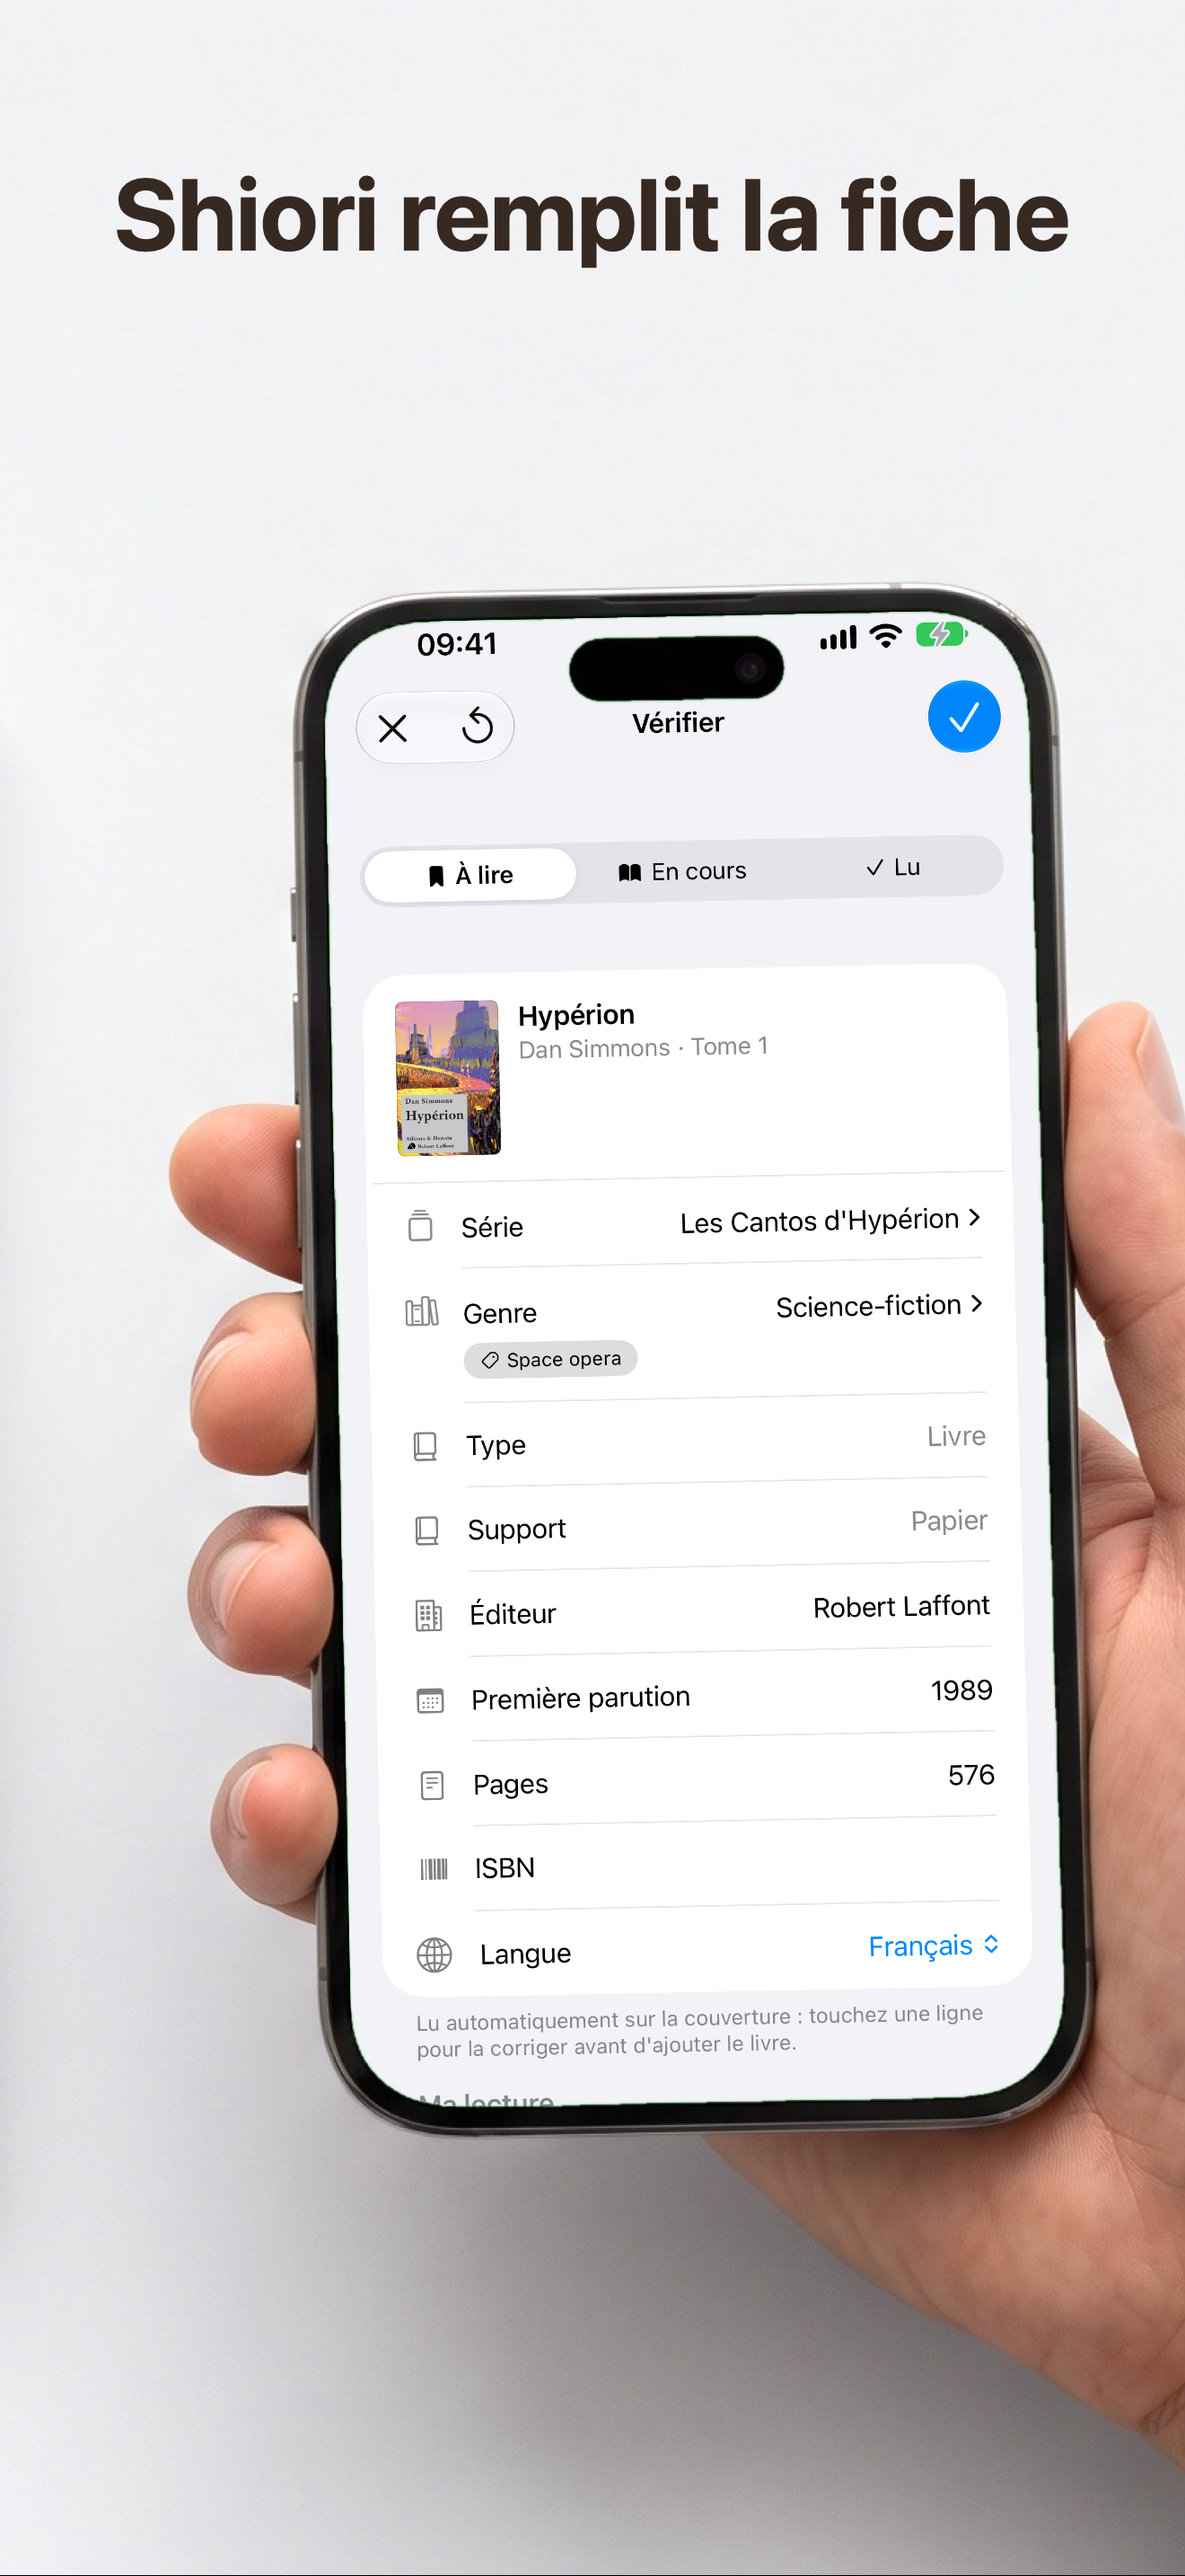
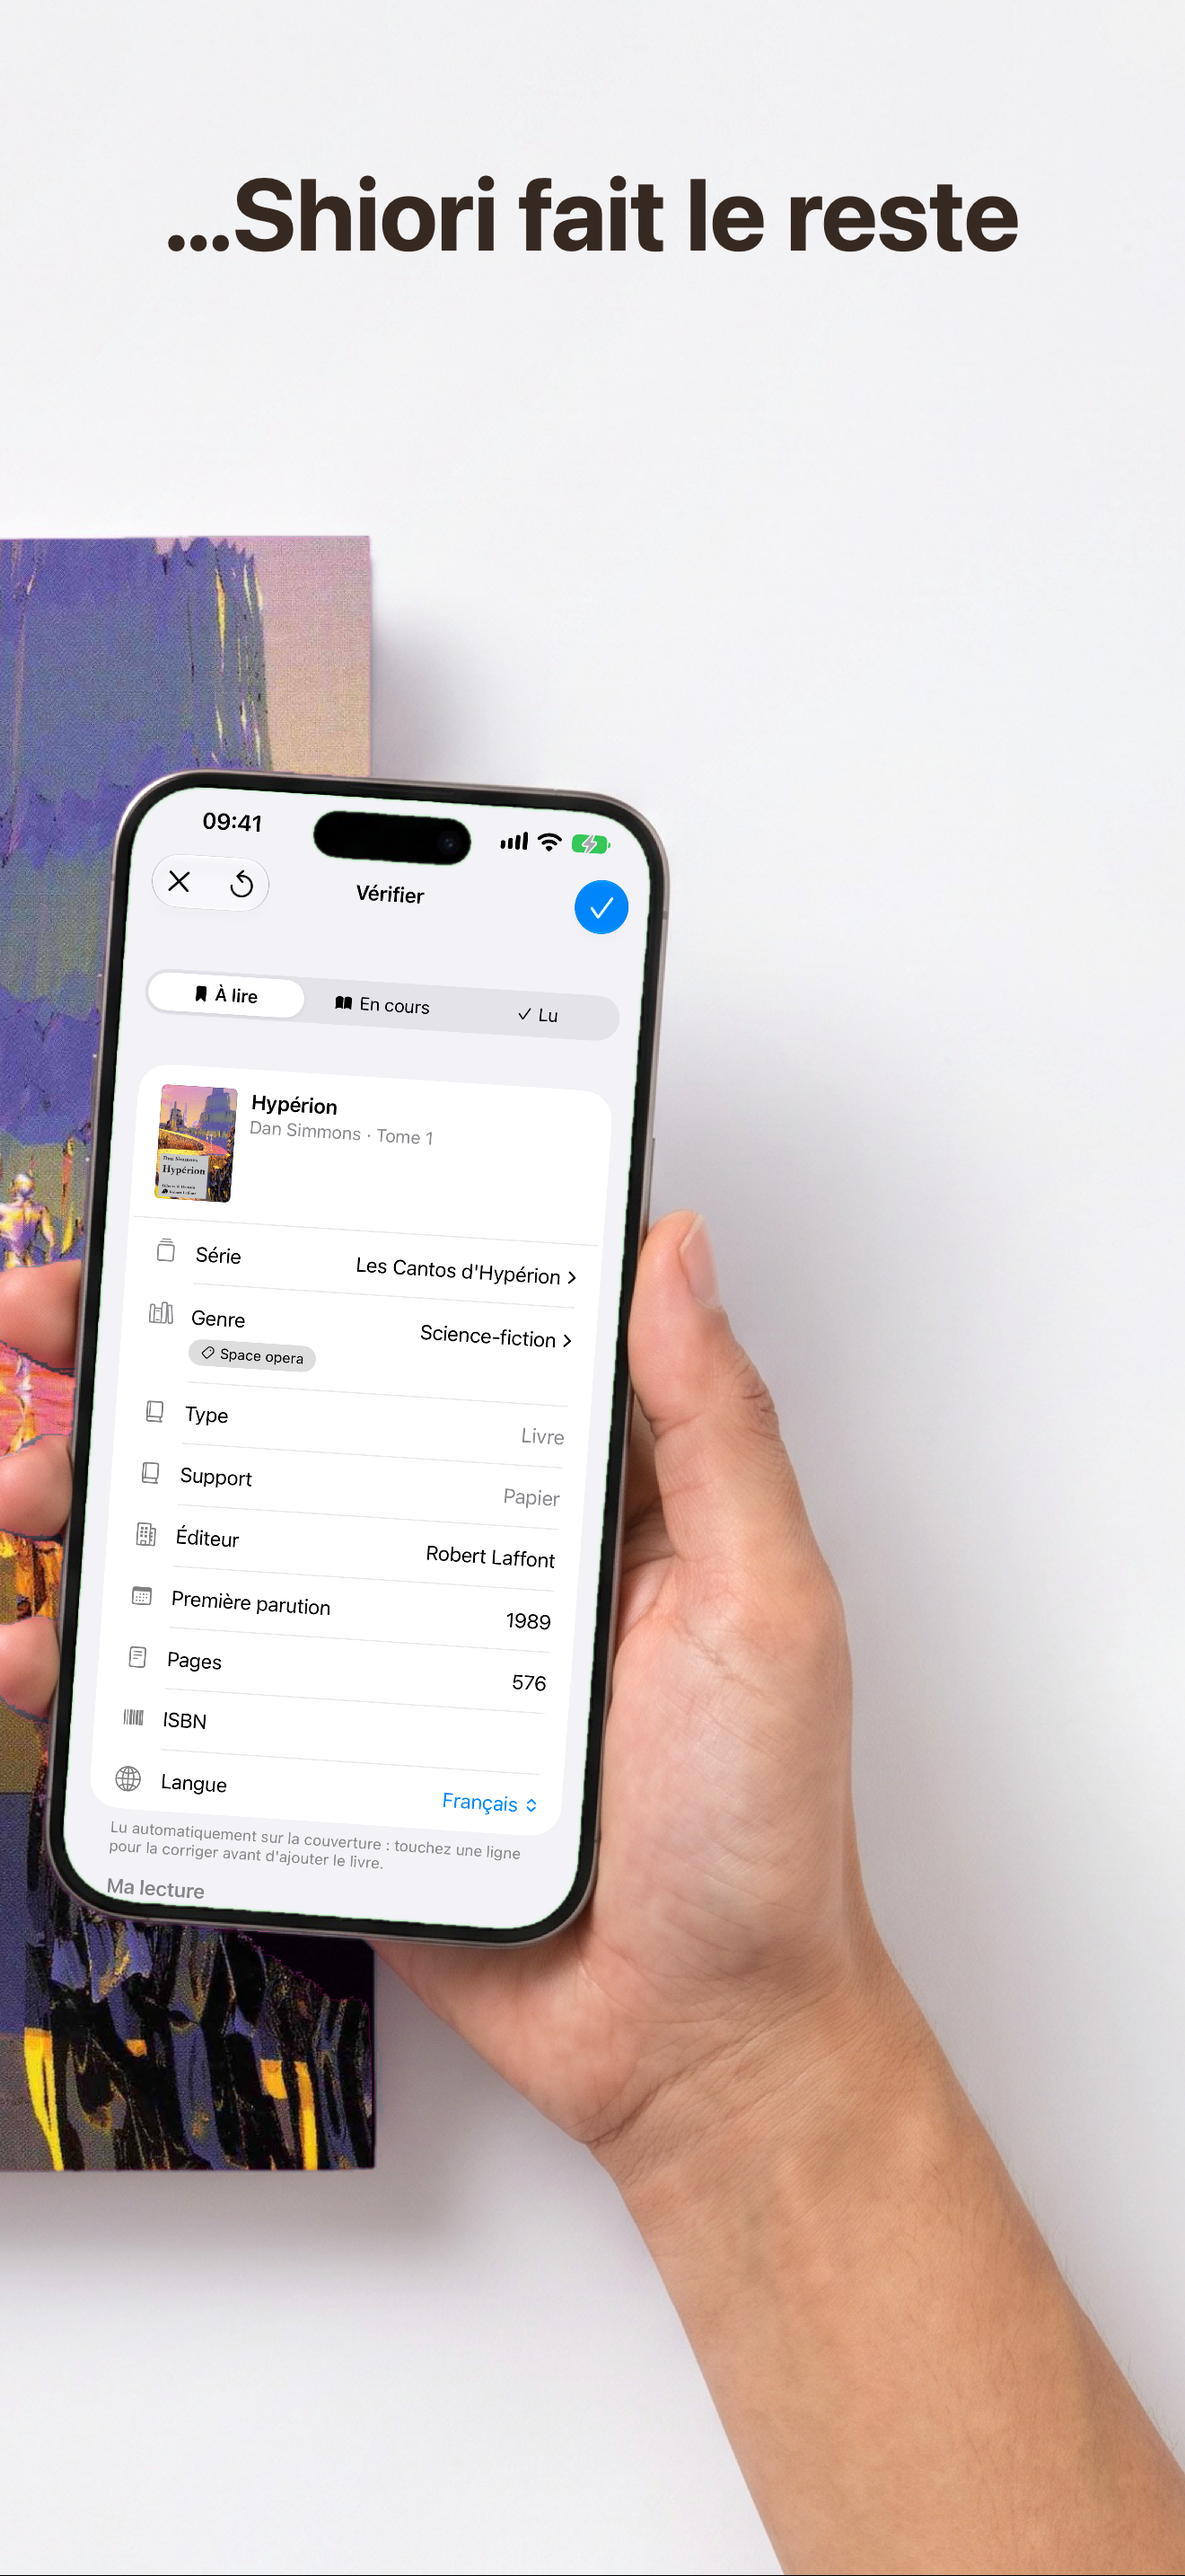
feat(appstore): the scan read across two panels, and shorter captions
The first two panels are now plainly one photograph: the Hypérion paperback
lies across the cut and the hand scans it from the right, the title split
in two with it. A cover partly hidden by the phone is placed from where its
sides show. The library panel loses its bookshelf for the common grey, and
the captions are the ones chosen for the listing.

diff --git a/scripts/generate-appstore-previews.ts b/scripts/generate-appstore-previews.ts
@@ -14,8 +14,8 @@
  * Three kinds of panel. The first two are one photograph cut in two: a reader
  * photographing a book, the phone showing its record filled in. The last is two
  * friends' hands, each phone showing the Partagé page. In between, the app alone:
- * an iPhone drawn to its exact proportions (device-panel.swift), on the grey or
- * before a dark bookshelf — hands added nothing there.
+ * an iPhone drawn to its exact proportions (device-panel.swift), on the grey —
+ * hands added nothing there.
  *
  * Scenes are cached in screenshots/appstore/scenes/ and committed: changing a
  * caption or a capture asks nothing of the model. Look at a new scene before
@@ -56,14 +56,13 @@ type Scene = { name: string; aspect: string; prompt: string }
 const SCAN: Scene = {
   name: 'scan',
   aspect: '1:1',
-  prompt: `ONE single continuous photorealistic studio photograph, square, one shot from one camera. It is NOT a diptych: no dividing line, no border, no seam; every object appears exactly once.
+  prompt: `ONE single continuous photorealistic studio photograph, square, one shot from one camera, seen from slightly above. It is NOT a diptych: no dividing line, no border, no seam; every object appears exactly once.
 ${BACKDROP}
-A reader photographs a book with their phone. The frame will be cut down its vertical middle into two side-by-side panels:
-- LEFT HALF: a single closed paperback book lies on the light grey surface, seen from slightly above, large — about 75% of the left half's width — its front cover facing up toward the camera. The cover is ONE uniform, flat, pure magenta (#FF00FF) rectangle from edge to edge, no print, no texture (a placeholder to be replaced).
-- RIGHT HALF: a single hand (hand and wrist only, light-medium skin) holds one modern iPhone upright and VERY LARGE, its top edge 18% below the top of the frame and its bottom edge at 92% of the frame's height, its screen facing the viewer, turned very slightly toward the book as if it has just photographed it.
-- Nothing on the vertical centre line: the phone stays entirely in the right half.
+A reader photographs a book with their phone. The frame will be cut down its vertical middle into two side-by-side panels, and the scene must visibly run across that cut:
+- A single large closed paperback book lies flat on the light grey surface, ACROSS the vertical centre line: about 60% of it in the left half and 40% in the right half, its front cover facing up. The cover is ONE uniform, flat, pure magenta (#FF00FF) rectangle from edge to edge, no print, no texture (a placeholder to be replaced). The book is large: about 55% of the frame's width.
+- In the right half, beside the right end of the book and NOT overlapping it, a single hand (hand and wrist only, light-medium skin) enters from the right edge and holds one modern iPhone almost upright, its screen facing the viewer straight on (turned at most 10° toward the book, as if it has just photographed it). The phone is LARGE — about 62% of the frame's height — and stays entirely in the right half; nothing covers any part of the book's cover.
 ${GREEN_SCREEN}
-The top 16% of the frame is empty background, for captions.
+The top 18% of the frame is empty background, for captions.
 ${NO_TEXT}`,
 }
 
@@ -78,20 +77,12 @@ Each display has the slim proportions of an iPhone 17 Pro Max, its height 2.17 t
 ${NO_TEXT}`,
 }
 
-const SHELVES: Scene = {
-  name: 'shelves',
-  aspect: '9:16',
-  prompt: `A photorealistic photograph, vertical 9:16: a wall of dark walnut bookshelves packed with old and colourful books, filling the whole frame from edge to edge, softly out of focus, deep shadows between the books, dim warm lamplight. No person, no hand, no phone, no object in front of the shelves.
-ABSOLUTELY NO TEXT, letters or logos anywhere, not on the book spines either.`,
-}
-
-/** The app alone, in a drawn iPhone: on the grey, or before a scene. */
+/** The app alone, in a drawn iPhone on the grey. */
 type DevicePanel = {
   kind: 'device'
   output: string
   capture: string
   caption: string
-  scene?: Scene
 }
 
 const LIGHT_GREY = '#F2F2F4'
@@ -101,8 +92,7 @@ const DEVICES: DevicePanel[] = [
     kind: 'device',
     output: '03-bibliotheque.png',
     capture: '01-library.png',
-    caption: 'Une photo, votre bibliothèque',
-    scene: SHELVES,
+    caption: 'Livres et audio !',
   },
   {
     kind: 'device',
@@ -114,19 +104,19 @@ const DEVICES: DevicePanel[] = [
     kind: 'device',
     output: '05-series.png',
     capture: '03-series.png',
-    caption: "Détection des séries et de votre état d'avancement",
+    caption: 'Suivi de vos séries préférées',
   },
   {
     kind: 'device',
     output: '06-serie.png',
     capture: '04-saga.png',
-    caption: "Être averti de l'arrivée d'un tome de votre série préférée",
+    caption: 'Être averti des sorties et disponibilités',
   },
   {
     kind: 'device',
     output: '07-decouvrir.png',
     capture: '05-discover.png',
-    caption: 'Découvrez les sorties, les disponibilités et les coups de cœur de vos amis',
+    caption: 'Découvrez vos nouveaux coups de cœur',
   },
 ]
 
@@ -204,15 +194,14 @@ const caption = async (input: string, output: string, text: string) => {
   const fitted = join(work, 'scan-fit.png')
   const covered = join(work, 'scan-cover.png')
   const screened = join(work, 'scan-screen.png')
-  // The model draws the phone at half the height asked: the window closes in on it.
-  await $`swift ${finishPanel} fit ${await sceneImage(SCAN)} ${fitted} --backdrop --width 2640 --zoom 1.17 --top 0.05 --center 0.455`.quiet()
+  await $`swift ${finishPanel} fit ${await sceneImage(SCAN)} ${fitted} --backdrop --width 2640`.quiet()
   await $`swift ${compositeMockup} ${fitted} ${covered} ${hyperionCover}`
     .env({ ...process.env, KEY: 'magenta' })
     .quiet()
   await $`swift ${compositeMockup} ${covered} ${screened} ${await capture('00-scan.png')}`.quiet()
   const halves = [
-    { output: '01-scan-livre.png', text: 'Photographiez la couverture', offset: 0 },
-    { output: '02-scan-fiche.png', text: 'Shiori remplit la fiche', offset: 1320 },
+    { output: '01-scan-livre.png', text: 'Scannez…', offset: 0 },
+    { output: '02-scan-fiche.png', text: '…Shiori fait le reste', offset: 1320 },
   ]
   for (const half of halves) {
     const cut = join(work, `scan-${half.offset}.png`)
@@ -226,8 +215,7 @@ const caption = async (input: string, output: string, text: string) => {
 // 03 to 07: the app alone.
 for (const panel of DEVICES) {
   const drawn = join(work, panel.output)
-  const backdrop = panel.scene ? await sceneImage(panel.scene) : LIGHT_GREY
-  await $`swift ${devicePanel} ${backdrop} ${await capture(panel.capture)} ${drawn}`.quiet()
+  await $`swift ${devicePanel} ${LIGHT_GREY} ${await capture(panel.capture)} ${drawn}`.quiet()
   await caption(drawn, panel.output, panel.caption)
 }
 

diff --git a/scripts/composite-mockup.swift b/scripts/composite-mockup.swift
@@ -113,6 +113,7 @@ func analyse(_ photo: CIImage) -> Analysis {
 /// keyed region's outermost cells along the middle of that side, where the
 /// rounding does not reach; the corners are where the lines meet.
 func corners(of cells: [Int]) -> [CGPoint] {
+  if magenta { return cover(of: cells) }
   var left: [Int: Int] = [:], right: [Int: Int] = [:], top: [Int: Int] = [:], bottom: [Int: Int] = [:]
   for cell in cells {
     let (x, y) = (cell % gridWidth, cell / gridWidth)
@@ -149,6 +150,32 @@ func corners(of cells: [Int]) -> [CGPoint] {
     meet(vertical: r, offsetX: 1.5, horizontal: t, offsetY: -0.5),
     meet(vertical: r, offsetX: 1.5, horizontal: b, offsetY: 1.5),
     meet(vertical: l, offsetX: -0.5, horizontal: b, offsetY: 1.5),
+  ]
+}
+
+/// A book's cover, lying square to the camera, which a hand or a phone may cover
+/// in part: each side is where most of the cover reaches, so a side hidden in
+/// the middle by a phone is still found where it shows above and below it.
+func cover(of cells: [Int]) -> [CGPoint] {
+  var lefts: [Int: Int] = [:], rights: [Int: Int] = [:], tops: [Int: Int] = [:], bottoms: [Int: Int] = [:]
+  for cell in cells {
+    let (x, y) = (cell % gridWidth, cell / gridWidth)
+    lefts[y] = min(lefts[y] ?? .max, x)
+    rights[y] = max(rights[y] ?? .min, x)
+    tops[x] = min(tops[x] ?? .max, y)
+    bottoms[x] = max(bottoms[x] ?? .min, y)
+  }
+  func percentile(_ values: [Int], _ share: Double) -> Double {
+    let sorted = values.sorted()
+    return Double(sorted[min(sorted.count - 1, Int(Double(sorted.count) * share))])
+  }
+  let left = (percentile(Array(lefts.values), 0.1) - 0.5) * Double(step)
+  let right = (percentile(Array(rights.values), 0.9) + 1.5) * Double(step)
+  let top = (percentile(Array(tops.values), 0.1) - 0.5) * Double(step)
+  let bottom = (percentile(Array(bottoms.values), 0.9) + 1.5) * Double(step)
+  return [
+    CGPoint(x: left, y: top), CGPoint(x: right, y: top),
+    CGPoint(x: right, y: bottom), CGPoint(x: left, y: bottom),
   ]
 }
 

diff --git a/docs/superpowers/specs/2026-10-02-app-store-listing-design.md b/docs/superpowers/specs/2026-10-02-app-store-listing-design.md
@@ -95,23 +95,23 @@ Eight panels on a very light grey (#F2F2F4):
 
 | Panel | What it shows | Caption |
 |---|---|---|
-| 01 · 02 | One photograph cut in two: the Hypérion paperback with its real cover, a hand holding the phone that just photographed it, showing its record | Photographiez la couverture · Shiori remplit la fiche |
-| 03 | A drawn iPhone before dark bookshelves: the mosaic | Une photo, votre bibliothèque |
+| 01 · 02 | One photograph cut in two: the Hypérion paperback lying across the cut, a hand scanning it, the phone showing its record | Scannez… · …Shiori fait le reste |
+| 03 | A drawn iPhone: the mosaic | Livres et audio ! |
 | 04 | A drawn iPhone: the dashboard | Des analytics détaillés |
-| 05 | A drawn iPhone: the sagas | Détection des séries et de votre état d'avancement |
-| 06 | A drawn iPhone: One Piece's page and its next volume | Être averti de l'arrivée d'un tome de votre série préférée |
-| 07 | A drawn iPhone: Découvrir | Découvrez les sorties, les disponibilités et les coups de cœur de vos amis |
+| 05 | A drawn iPhone: the sagas | Suivi de vos séries préférées |
+| 06 | A drawn iPhone: One Piece's page and its next volume | Être averti des sorties et disponibilités |
+| 07 | A drawn iPhone: Découvrir | Découvrez vos nouveaux coups de cœur |
 | 08 | Two friends' hands, each phone on the Partagé page, one held upside down | Partagez votre bibliothèque avec vos proches |
 
 **The app alone** (03–07) is an iPhone 17 Pro Max drawn by `device-panel.swift` to the
 device's own geometry — titanium band, black border, Dynamic Island, side buttons — so the
-capture fills the screen to the pixel. Hands added nothing there.
+capture fills the screen to the pixel, on the grey. Hands added nothing there.
 
 **The photographs** (01–02, 08) are drawn by the image model with each phone's display in
 flat chroma-key green and the book's cover in magenta; it is never asked for the app or the
 cover, whose text it garbles. `composite-mockup.swift` finds each keyed region, takes its
 corners from straight lines fitted along its four edges (its extreme points sit inside the
-rounded corners and left a strip of screen uncovered), widens the photograph around the
+rounded corners and left a strip of screen uncovered; a book's cover, which the phone may hide in part, is taken square from where most of each side shows), widens the photograph around the
 phones until their screens have the capture's proportions (the model draws phones narrower
 than an iPhone whatever it is told), and fits the capture in perspective, never stretched,
 keeping the photograph wherever a finger or the bezel crosses it.
